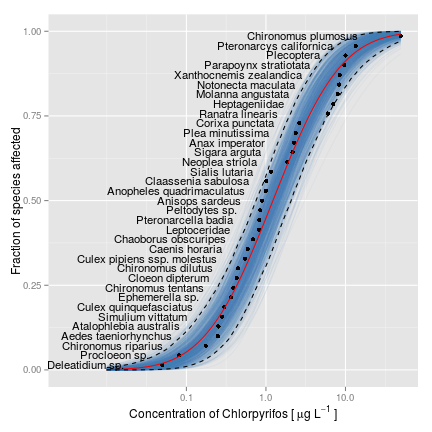
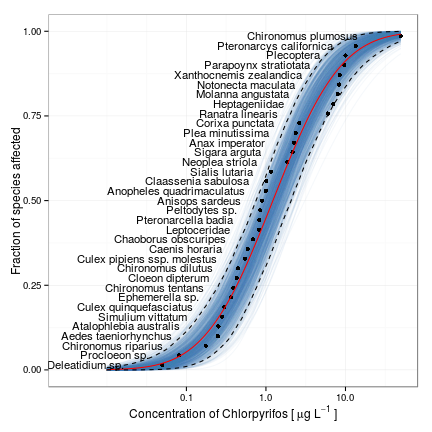
fix theme

diff --git a/_posts/2014-12-30-ssd.md b/_posts/2014-12-30-ssd.md
@@ -315,7 +315,7 @@ ggplot()+
   geom_line(data = pdat, aes(x = newxs, y = lwr), linetype = 'dashed') + 
   geom_line(data = pdat, aes(x = newxs, y = upr), linetype = 'dashed') + 
   geom_text(data = df, aes(x = fit, y = frac, label = species), hjust = 1, size = 4) +
-#   theme_bw() +
+  theme_bw() +
   scale_x_log10(breaks = c(0.1, 1, 10, 100, 1000), limits = c(0.003, max(df$val))) +
   labs(x = expression(paste('Concentration of Chlorpyrifos [ ', mu, 'g ', L^-1, ' ]')), 
        y = 'Fraction of species affected')
